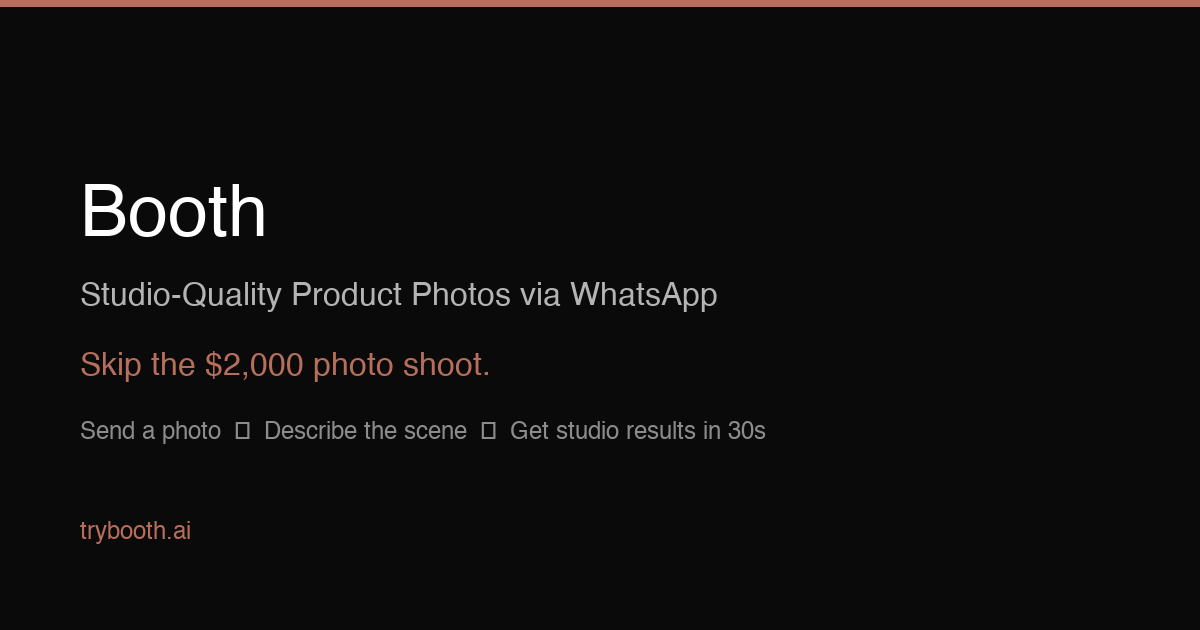
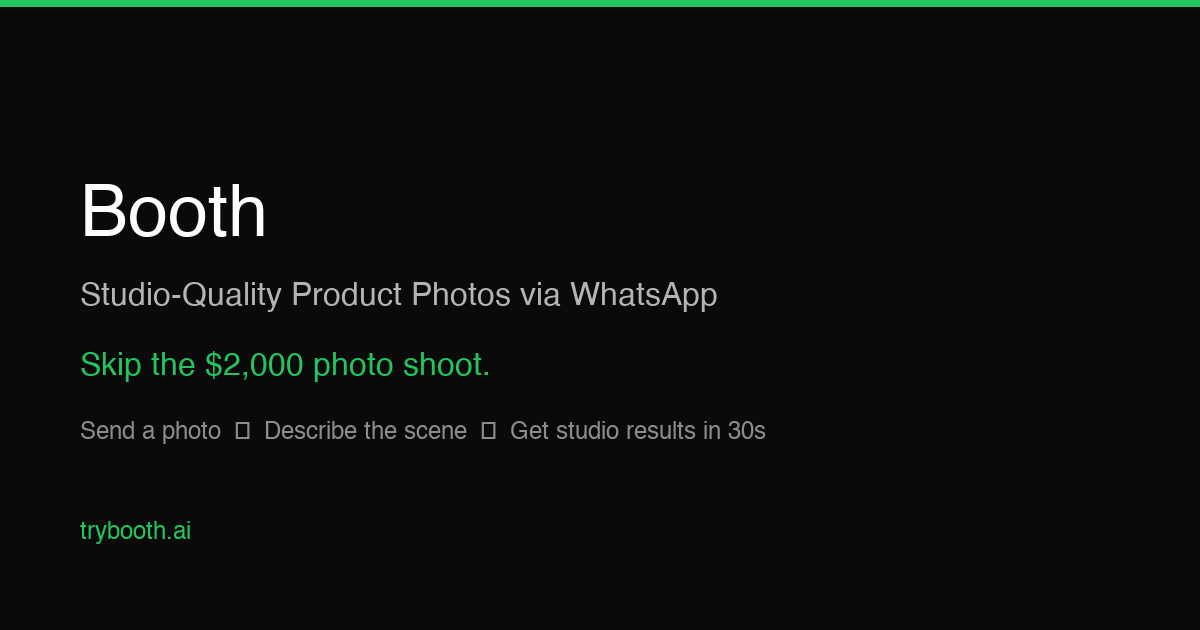
Revert to green (WhatsApp) color scheme, keep Booth branding + new pain section

Changed region(s): [[0.0, 0.0, 1.0, 0.0302], [0.0617, 0.5429, 0.4008, 0.6032], [0.0617, 0.8143, 0.1542, 0.8746]]

diff --git a/src/app/page.tsx b/src/app/page.tsx
@@ -2,7 +2,7 @@
 import React from "react";
 
 const WA_LINK = "https://wa.me/17314727892?text=Hi%2C%20I'd%20like%20to%20try%20Booth";
-const COPPER = "#B76E5B";
+
 
 /* ─── Icons (inline SVG, compact) ─── */
 const CameraIcon = () => (
@@ -77,8 +77,7 @@ function Nav() {
           href={WA_LINK}
           target="_blank"
           rel="noopener noreferrer"
-          className="rounded-full px-4 py-1.5 text-sm text-white font-medium hover:opacity-90 transition-opacity"
-          style={{ backgroundColor: COPPER }}
+          className="rounded-full px-4 py-1.5 text-sm text-white font-medium hover:opacity-90 transition-opacity bg-green-500"
         >
           Try Free
         </a>
@@ -93,13 +92,13 @@ function Hero() {
       <div className="max-w-5xl mx-auto grid md:grid-cols-2 gap-8 items-center">
         {/* Left: copy */}
         <div>
-          <div className="inline-block mb-4 rounded-full px-3 py-1 text-xs font-medium" style={{ backgroundColor: "rgba(183,110,91,0.1)", color: COPPER }}>
+          <div className="inline-block mb-4 rounded-full px-3 py-1 text-xs font-medium bg-green-100 text-green-700">
             10 free photos · No credit card
           </div>
           <h1 className="text-4xl sm:text-5xl font-extrabold tracking-tight text-gray-900 leading-[1.1]">
             Kill Expensive
             <br />
-            <span style={{ color: COPPER }}>Photo Shoots</span>
+            <span className="text-green-500">Photo Shoots</span>
           </h1>
           <p className="mt-4 text-base text-gray-500 max-w-md leading-relaxed">
             Stop renting studios and hiring photographers. WhatsApp a product photo, describe the scene, get studio-quality results in 30 seconds. ~$0.50/photo.
@@ -109,8 +108,7 @@ function Hero() {
               href={WA_LINK}
               target="_blank"
               rel="noopener noreferrer"
-              className="inline-flex items-center gap-2 rounded-full px-6 py-2.5 text-white font-semibold text-sm hover:opacity-90 transition-opacity"
-              style={{ backgroundColor: COPPER }}
+              className="inline-flex items-center gap-2 rounded-full px-6 py-2.5 text-white font-semibold text-sm hover:opacity-90 transition-opacity bg-green-500"
             >
               <WhatsAppIcon className="w-4 h-4" />
               Start Free on WhatsApp
@@ -126,9 +124,9 @@ function Hero() {
             <img src="/before.jpg" alt="Before" className="w-full h-full object-cover" />
             <span className="absolute bottom-2 left-2 bg-white/90 backdrop-blur text-gray-600 text-[10px] font-medium px-2 py-0.5 rounded-full">Before</span>
           </div>
-          <div className="rounded-xl overflow-hidden aspect-[3/4] relative" style={{ borderColor: COPPER, borderWidth: 1 }}>
+          <div className="rounded-xl overflow-hidden aspect-[3/4] relative border border-green-200">
             <img src="/after.jpg" alt="After" className="w-full h-full object-cover" />
-            <span className="absolute bottom-2 left-2 backdrop-blur text-white text-[10px] font-medium px-2 py-0.5 rounded-full" style={{ backgroundColor: COPPER }}>After</span>
+            <span className="absolute bottom-2 left-2 backdrop-blur text-white text-[10px] font-medium px-2 py-0.5 rounded-full bg-green-500">After</span>
           </div>
         </div>
       </div>
@@ -168,25 +166,25 @@ function PainOfStatusQuo() {
           </div>
 
           {/* Booth way */}
-          <div className="rounded-xl border-2 p-5" style={{ borderColor: COPPER, backgroundColor: "rgba(183,110,91,0.04)" }}>
-            <h3 className="text-sm font-bold uppercase tracking-wider mb-3" style={{ color: COPPER }}>With Booth</h3>
+          <div className="rounded-xl border-2 p-5 border-green-500 bg-green-50/40">
+            <h3 className="text-sm font-bold uppercase tracking-wider mb-3 text-green-500">With Booth</h3>
             <div className="space-y-2.5">
               <div className="flex items-center gap-3">
-                <span style={{ color: COPPER }} className="shrink-0"><WhatsAppIcon /></span>
+                <span className="text-green-500 shrink-0"><WhatsAppIcon /></span>
                 <span className="text-sm text-gray-700">WhatsApp a product photo</span>
               </div>
               <div className="flex items-center gap-3">
-                <span style={{ color: COPPER }} className="shrink-0"><ChatIcon /></span>
+                <span className="text-green-500 shrink-0"><ChatIcon /></span>
                 <span className="text-sm text-gray-700">Describe your scene in plain English</span>
               </div>
               <div className="flex items-center gap-3">
-                <span style={{ color: COPPER }} className="shrink-0"><SparklesIcon /></span>
+                <span className="text-green-500 shrink-0"><SparklesIcon /></span>
                 <span className="text-sm text-gray-700">Studio-quality photo in 30 seconds</span>
               </div>
             </div>
             <div className="mt-4 pt-3 border-t flex items-center justify-between" style={{ borderColor: "rgba(183,110,91,0.2)" }}>
               <span className="text-sm font-bold text-gray-900">Cost per photo</span>
-              <span className="text-sm font-bold" style={{ color: COPPER }}>~$0.50 &middot; 30 seconds</span>
+              <span className="text-sm font-bold text-green-500">~$0.50 &middot; 30 seconds</span>
             </div>
           </div>
         </div>
@@ -208,11 +206,11 @@ function HowItWorks() {
         <div className="grid grid-cols-1 md:grid-cols-3 gap-3">
           {steps.map((s, i) => (
             <div key={i} className="flex items-start gap-3 p-4 rounded-xl bg-gray-50 border border-gray-100">
-              <div className="flex items-center justify-center w-9 h-9 rounded-lg shrink-0" style={{ backgroundColor: "rgba(183,110,91,0.1)", color: COPPER }}>
+              <div className="flex items-center justify-center w-9 h-9 rounded-lg shrink-0 bg-green-100 text-green-700">
                 {s.icon}
               </div>
               <div>
-                <span className="text-[10px] font-bold uppercase tracking-wider" style={{ color: COPPER }}>{i + 1}</span>
+                <span className="text-[10px] font-bold uppercase tracking-wider text-green-500">{i + 1}</span>
                 <h3 className="text-sm font-semibold text-gray-900">{s.title}</h3>
                 <p className="text-xs text-gray-500 mt-0.5 leading-relaxed">{s.desc}</p>
               </div>
@@ -313,12 +311,12 @@ function Pricing() {
             <button
               onClick={() => setAnnual(!annual)}
               className="relative inline-flex h-5 w-9 items-center rounded-full transition-colors"
-              style={{ backgroundColor: annual ? COPPER : "#d1d5db" }}
+              className={annual ? "bg-green-500" : "bg-gray-300"}
             >
               <span className={`inline-block h-3.5 w-3.5 transform rounded-full bg-white shadow transition-transform ${annual ? "translate-x-[1.125rem]" : "translate-x-0.5"}`} />
             </button>
             <span className={`text-xs font-medium ${annual ? "text-gray-900" : "text-gray-400"}`}>Annual</span>
-            {annual && <span className="rounded-full px-2 py-0.5 text-[10px] font-semibold" style={{ backgroundColor: "rgba(183,110,91,0.1)", color: COPPER }}>-20%</span>}
+            {annual && <span className="rounded-full px-2 py-0.5 text-[10px] font-semibold bg-green-100 text-green-700">-20%</span>}
           </div>
         </div>
         <div className="grid md:grid-cols-3 gap-3">
@@ -330,10 +328,10 @@ function Pricing() {
                   ? "bg-white shadow-md border-2"
                   : "border-2 border-gray-100 bg-white"
               }`}
-              style={p.popular ? { borderColor: COPPER } : undefined}
+              className={p.popular ? "border-green-500 bg-white shadow-md shadow-green-50" : ""}
             >
               {p.popular && (
-                <span className="absolute -top-2.5 left-1/2 -translate-x-1/2 text-white text-[10px] font-bold px-3 py-0.5 rounded-full" style={{ backgroundColor: COPPER }}>
+                <span className="absolute -top-2.5 left-1/2 -translate-x-1/2 text-white text-[10px] font-bold px-3 py-0.5 rounded-full bg-green-500">
                   Popular
                 </span>
               )}
@@ -348,7 +346,7 @@ function Pricing() {
               <ul className="mt-3 space-y-1.5">
                 {p.features.map((f) => (
                   <li key={f} className="flex items-center gap-2 text-xs text-gray-600">
-                    <svg className="w-3.5 h-3.5 shrink-0" style={{ color: COPPER }} fill="none" viewBox="0 0 24 24" stroke="currentColor" strokeWidth={2.5}>
+                    <svg className="w-3.5 h-3.5 shrink-0 text-green-500" fill="none" viewBox="0 0 24 24" stroke="currentColor" strokeWidth={2.5}>
                       <path strokeLinecap="round" strokeLinejoin="round" d="M4.5 12.75l6 6 9-13.5" />
                     </svg>
                     {f}
@@ -364,7 +362,7 @@ function Pricing() {
                     ? "text-white"
                     : "bg-gray-100 text-gray-700 hover:bg-gray-200"
                 }`}
-                style={p.popular ? { backgroundColor: COPPER } : undefined}
+                className={p.popular ? "bg-green-500" : "bg-gray-800"}
               >
                 Get Started
               </a>
@@ -434,7 +432,7 @@ function FAQ() {
 
 function CTA() {
   return (
-    <section className="py-10 px-6" style={{ backgroundColor: COPPER }}>
+    <section className="py-10 px-6 bg-green-500">
       <div className="max-w-3xl mx-auto text-center text-white">
         <h2 className="text-2xl font-bold">Start with 10 Free Photos</h2>
         <p className="mt-2 text-sm" style={{ color: "rgba(255,255,255,0.7)" }}>No credit card. No commitment. Just send a photo.</p>
@@ -443,8 +441,7 @@ function CTA() {
             href={WA_LINK}
             target="_blank"
             rel="noopener noreferrer"
-            className="inline-flex items-center gap-2 rounded-full bg-white px-6 py-2.5 font-semibold text-sm hover:bg-gray-50 transition-colors"
-            style={{ color: COPPER }}
+            className="inline-flex items-center gap-2 rounded-full bg-white px-6 py-2.5 font-semibold text-sm hover:bg-gray-50 transition-colors text-green-500"
           >
             <WhatsAppIcon className="w-4 h-4" />
             Get Started on WhatsApp
